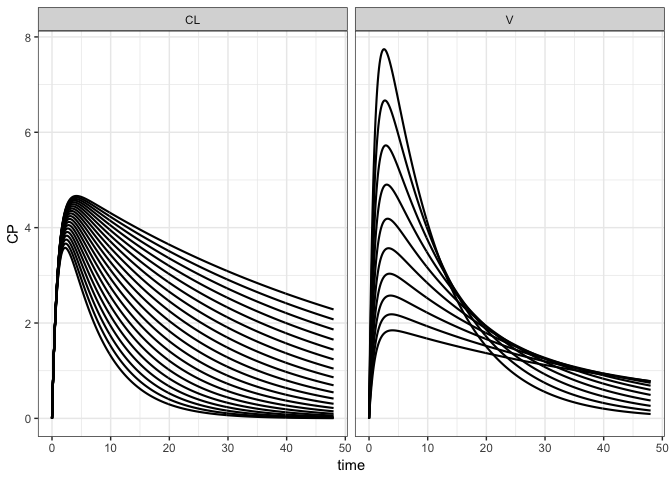
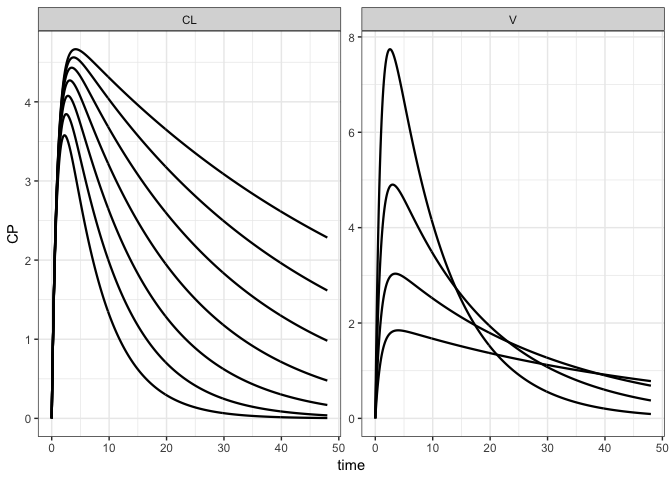
re-work plotting methods

diff --git a/README.md b/README.md
@@ -25,9 +25,9 @@ The nominal (in model) parameter value is divided and multiplied by a factor, ge
 ``` r
 mod %>% 
   ev(amt = 100) %>% 
-  parseq_factor(CL,V,.n=7) %>% 
+  parseq_factor(CL,V,.n=8) %>% 
   sens_each() %>% 
-  plot_sens(CP)
+  sens_plot(CP)
 ```
 
 ![](inst/img/README-unnamed-chunk-3-1.png)
@@ -40,7 +40,7 @@ mod %>%
   ev(amt = 100) %>% 
   parseq_range(CL=c(1,2), V = c(10,30), .n =7) %>% 
   sens_each() %>% 
-  plot_sens(CP)
+  sens_plot(CP)
 ```
 
 ![](inst/img/README-unnamed-chunk-4-1.png)
@@ -56,7 +56,7 @@ mod %>%
     V = c(10,35,50)
   ) %>% 
   sens_each() %>% 
-  plot_sens(CP)
+  sens_plot(CP)
 ```
 
 ![](inst/img/README-unnamed-chunk-5-1.png)
@@ -65,11 +65,11 @@ mod %>%
 mod %>% 
   ev(amt = 100) %>% 
   parseq_manual(
-    CL = fct_seq(mod$CL, .n = 20), 
-    V = geo_seq(10, 50, .n = 10)
+    CL = fct_seq(mod$CL, .n = 7), 
+    V = geo_seq(10, 50, .n = 4)
   ) %>% 
   sens_each() %>% 
-  plot_sens(CP)
+  sens_plot(CP)
 ```
 
 ![](inst/img/README-unnamed-chunk-6-1.png)
@@ -85,11 +85,11 @@ library(ggplot2)
 mod %>% 
   ev(amt = 100) %>% 
   parseq_manual(
-    CL = fct_seq(mod$CL, .n = 8, .factor = 2), 
+    CL = fct_seq(mod$CL, .n = 5, .factor = 2), 
     V = c(20,25,30)
   ) %>% 
   sens_grid(end = 72) %>% 
-  plot_sens(CP) + facet_wrap(~V)
+  sens_plot(CP, ncol=2)
 ```
 
 ![](inst/img/README-unnamed-chunk-7-1.png)
